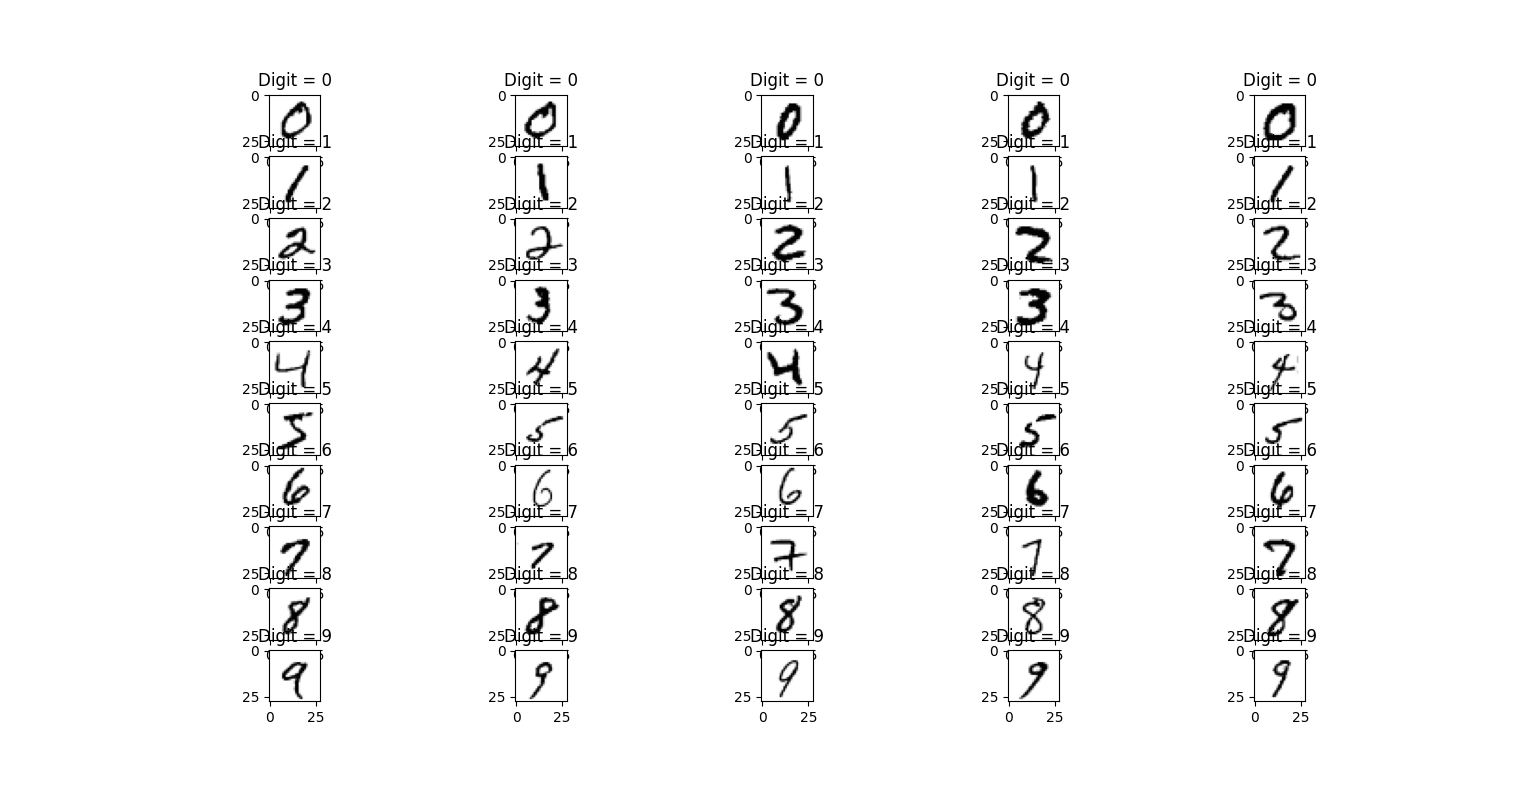
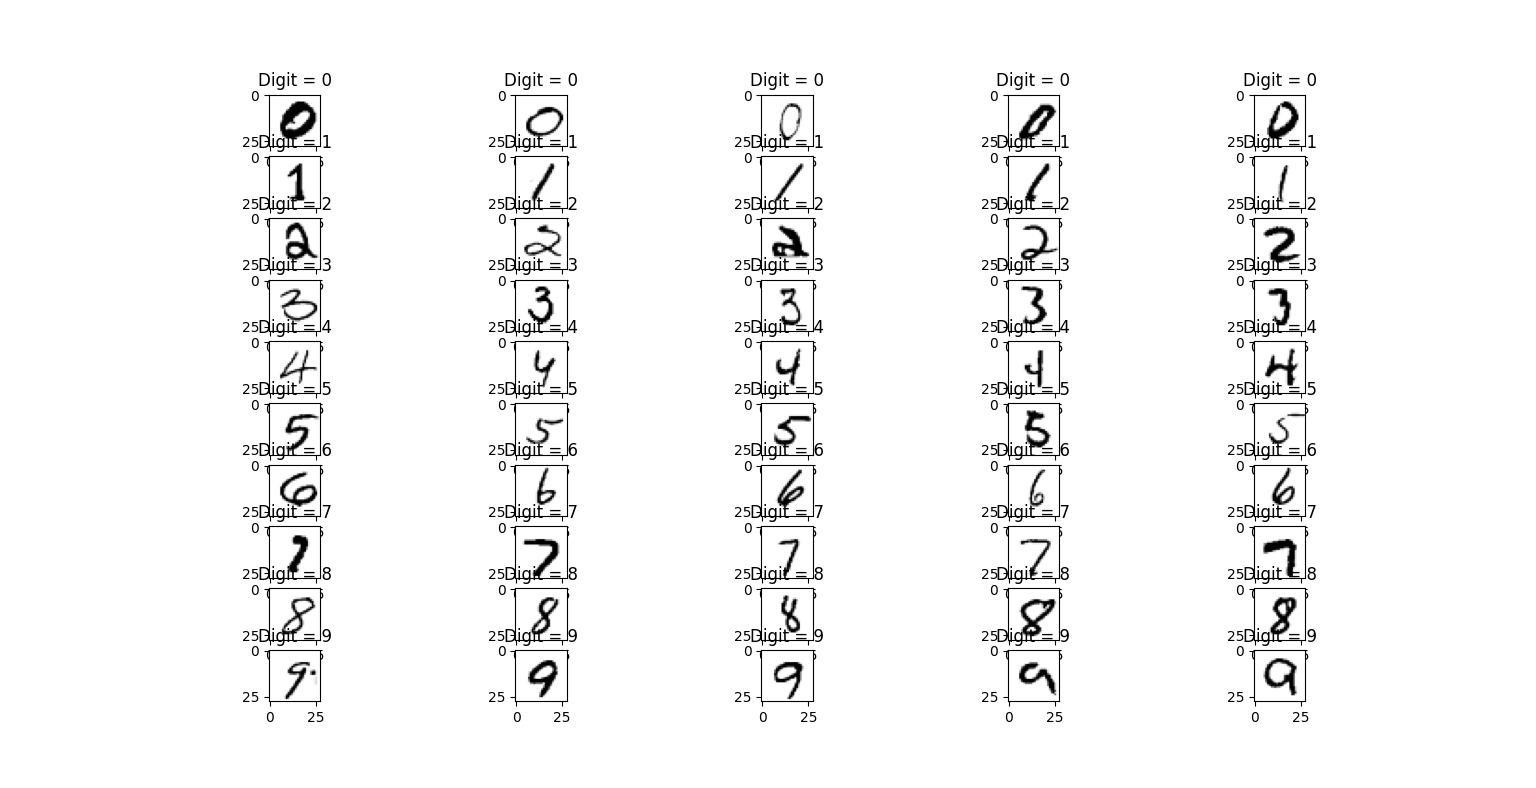
A1 partially 2

diff --git a/Assignment 1/lda2.py b/Assignment 1/lda2.py
@@ -1,0 +1,50 @@
+import pandas as pd
+import numpy as np
+
+# Read MNIST dataset using pandas
+df = pd.read_csv("mnist.csv")
+
+# Divide data into features and target
+X = df.iloc[:,:-1]
+y = df.iloc[:,-1]
+
+# Get unique class labels
+class_labels = np.unique(y)
+
+# Compute covariance matrix for each class
+cov_matrices = []
+for label in class_labels:
+    X_class = X[y==label]
+    mean_vector = np.mean(X_class, axis=0)
+    cov = np.zeros((X_class.shape[1], X_class.shape[1]))
+    for i in range(X_class.shape[0]):
+        diff = X_class[i]-mean_vector
+        cov += np.outer(diff, diff)
+    cov /= X_class.shape[0]-1
+    cov_matrices.append(cov)
+
+# Compute weighted average covariance matrix
+weights = [np.sum(y==label) for label in class_labels]
+weights = weights / np.sum(weights)
+cov_matrix = np.zeros_like(cov_matrices[0])
+for i in range(len(class_labels)):
+    cov_matrix += weights[i] * cov_matrices[i]
+
+# Regularize the covariance matrix
+cov_matrix += np.eye(X.shape[1]) * 0.01
+
+# Implement LDA function
+def linear_discriminant(X_test, class_labels, cov_matrix):
+    mean_vectors = []
+    for label in class_labels:
+        mean_vectors.append(np.mean(X[y==label], axis=0))
+    scores = []
+    for mean_vector in mean_vectors:
+        diff = X_test - mean_vector
+        score = np.dot(np.dot(diff, np.linalg.inv(cov_matrix)), diff.T)
+        scores.append(score)
+    return class_labels[np.argmin(scores)]
+
+# Predict class of samples from testing data
+X_test = ... # insert your test data
+y_pred = [linear_discriminant(X_test[i], class_labels, cov_matrix) for i in range(X_test.shape[0])]

diff --git a/Assignment 1/sol.py b/Assignment 1/sol.py
@@ -1,0 +1,49 @@
+import pandas as pd
+import numpy as np
+import matplotlib.pyplot as pyplot
+from sklearn.discriminant_analysis import LinearDiscriminantAnalysis, QuadraticDiscriminantAnalysis
+from sklearn.metrics import accuracy_score
+
+train_df, test_df = None, None
+
+def load_data ():
+  global train_df, test_df
+  train_df = pd.read_csv('mnist_train.csv')
+  test_df = pd.read_csv('mnist_test.csv')
+
+def visualize ():
+  global train_df
+  samples = train_df.groupby('label').apply(lambda label : label.sample(5))
+  for i, (index, row) in enumerate(samples.iterrows()):
+    pyplot.subplot(10, 5, i + 1)
+    pyplot.imshow(row[: -1].values.reshape(28, 28), cmap = "Greys")
+    pyplot.title('Digit = {}'.format(row['label']))
+  pyplot.tight_layout()
+  pyplot.show()
+
+def accuracy (A, B):
+  
+
+def sk_learn_lda ():
+  global train_df, test_df
+  lda_df = train_df.sample(frac = 1)
+  lda = LinearDiscriminantAnalysis()
+  lda.fit(lda_df.drop("label", axis = 1), lda_df["label"])
+  lda_results = lda.predict(test_df.drop("label", axis = 1))
+  lda_accuracy = accuracy_score(test_df["label"], lda_results)
+  print("sk-learn LDA Accuracy = ", lda_accuracy)
+
+def sk_learn_qda ():
+  global train_df, test_df
+  qda_df = train_df.sample(frac = 1)
+  qda = QuadraticDiscriminantAnalysis()
+  qda.fit(qda_df.drop("label", axis = 1), qda_df["label"])
+  qda_results = qda.predict(test_df.drop("label", axis = 1))
+  qda_accuracy = accuracy_score(test_df["label"], qda_results)
+  print("sk-learn QDA Accuracy = ", qda_accuracy)
+
+if __name__ == "__main__":
+  load_data()
+  visualize()
+  sk_learn_lda()
+  sk_learn_qda()

diff --git a/Assignment 1/lda.py b/Assignment 1/lda.py
@@ -1,0 +1,40 @@
+import numpy as np
+import pandas as pd
+from sklearn.model_selection import train_test_split
+from sklearn.metrics import accuracy_score
+
+# Load the MNIST dataset
+df = pd.read_csv("mnist.csv")
+
+# Split the dataset into training and test sets
+X_train, X_test, y_train, y_test = train_test_split(df.drop("label", axis=1), df["label"], test_size=0.2)
+
+# Calculate the mean of each class
+means = []
+classes = np.unique(y_train)
+for c in classes:
+    X_class = X_train[y_train == c]
+    means.append(np.mean(X_class, axis=0))
+means = np.array(means)
+
+# Calculate the covariance matrix for all classes
+covariance = np.zeros((X_train.shape[1], X_train.shape[1]))
+for c in classes:
+    X_class = X_train[y_train == c]
+    for x in X_class:
+        covariance += np.outer((x - means[c]), (x - means[c]).T)
+covariance /= X_train.shape[0]
+
+# Make predictions on the test data
+predictions = []
+for x in X_test:
+    scores = []
+    for c in range(len(classes)):
+        mean = means[c]
+        score = np.dot(np.dot((x - mean), np.linalg.inv(covariance)), (x - mean).T)
+        scores.append(-0.5 * score)
+    predictions.append(classes[np.argmax(scores)])
+
+# Calculate the accuracy of the model
+accuracy = accuracy_score(y_test, predictions)
+print("LDA accuracy:", accuracy)

diff --git a/Assignment 1/chatgpt.py b/Assignment 1/chatgpt.py
@@ -4,7 +4,7 @@ import matplotlib.pyplot as plt
 
 # Load the MNIST dataset from the CSV file
 df = pd.read_csv('mnist_train.csv')
-df = df[:100]
+
 # Group by label and sample 5 images per class
 grouped = df.groupby('label').apply(lambda x: x.sample(5))
 
@@ -23,6 +23,8 @@ plt.show()
 # Compute the covariance matrix for each class
 covariance_matrices = []
 labels = df['label'].unique()
+print(labels)
+print(type(labels))
 for label in labels:
     class_df = df[df['label'] == label].drop('label', axis=1)
     covariance = np.cov(class_df.T)
